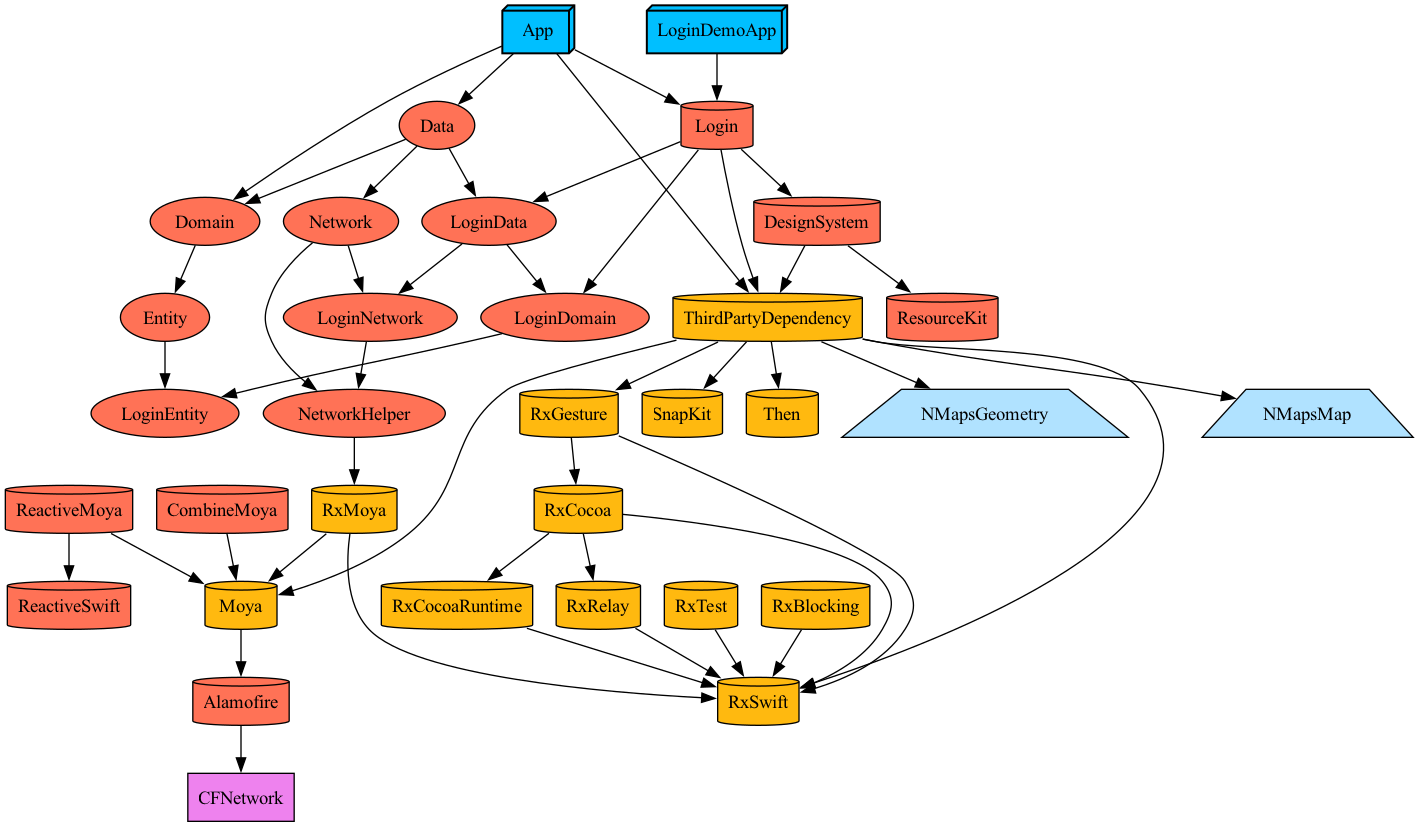
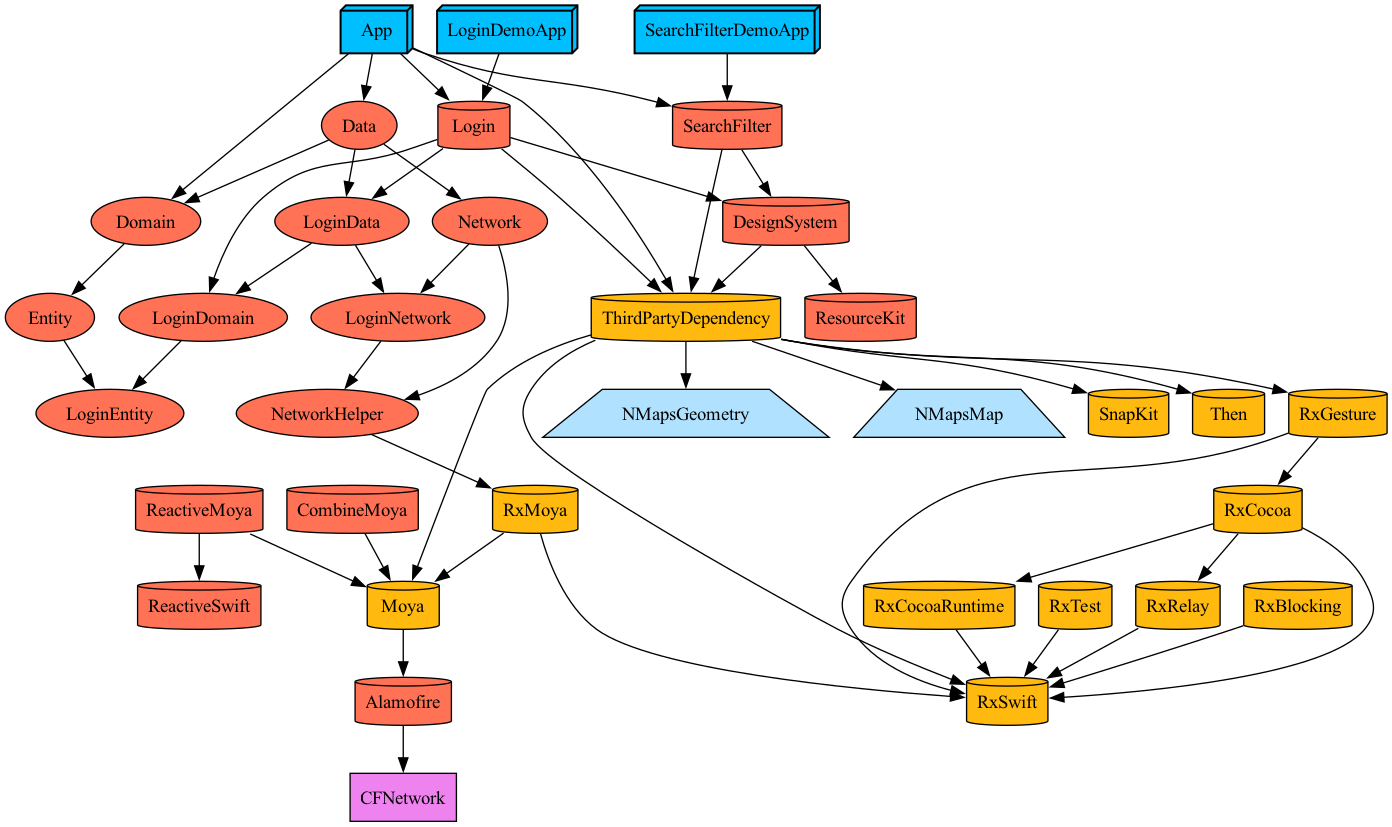
[SETTING] SearchFilter 모듈추가 및 SearchFilterDemoApp 추가

diff --git a/Plugins/FeaturePlugin/ProjectDescriptionHelpers/Feature+Project.swift b/Plugins/FeaturePlugin/ProjectDescriptionHelpers/Feature+Project.swift
@@ -11,6 +11,7 @@ import ProjectDescription
 extension TargetDependency {
   public struct Feature {
     public struct Login { }
+    public struct SearchFilter { }
   }
 }
 
@@ -27,3 +28,15 @@ public extension TargetDependency.Feature.Login {
   static let Main = project(name: "Login")
 }
 
+public extension TargetDependency.Feature.SearchFilter {
+  static let folderName: String = "SearchFilter"
+  
+  static func project(name: String) -> TargetDependency {
+    return .project(
+      target: "\(name)",
+      path: .relativeToRoot("Feature/\(folderName)")
+    )
+  }
+  
+  static let Main = project(name: "SearchFilter")
+}

diff --git a/Feature/SearchFilter/Project.swift b/Feature/SearchFilter/Project.swift
@@ -1,0 +1,30 @@
+//
+//  Project.swift
+//  ProjectDescriptionHelpers
+//
+//  Created by 구본의 on 2023/11/19.
+//
+
+import ProjectDescription
+import ProjectDescriptionHelpers
+
+import DataPlugin
+import DesignSystemPlugin
+import DomainPlugin
+import ThirdPartyDependencyPlugin
+
+let projectName: String = "SearchFilter"
+let iOSTargetVersion: String = "16.0"
+
+let project = Project.makeFrameworkProject(
+  name: projectName,
+  iOSTargetVersion: iOSTargetVersion,
+  dependencies: [
+    .ThirdParty.Main,
+    .DesignSystem.Main
+  ],
+  isDynamic: false,
+  needTestTarget: false,
+  needDemoAppTarget: true
+)
+

diff --git a/GuestHouse/Project.swift b/GuestHouse/Project.swift
@@ -63,8 +63,10 @@ private let appTarget: Target = Target(
   scripts: [.SwiftLintScript],
   dependencies: [
     .ThirdParty.Main,
-
-      .Feature.Login.Main,
+    
+    .Feature.Login.Main,
+    .Feature.SearchFilter.Main,
+    
     .Domain.Main,
     .Data.Main
   ],

diff --git a/Feature/SearchFilter/Resources/a.swift b/Feature/SearchFilter/Resources/a.swift
@@ -1,0 +1,10 @@
+//
+//  a.swift
+//  ProjectDescriptionHelpers
+//
+//  Created by 구본의 on 2023/11/19.
+//
+
+import Foundation
+
+let a: Int = 10

diff --git a/Feature/SearchFilter/Sources/a.swift b/Feature/SearchFilter/Sources/a.swift
@@ -1,0 +1,10 @@
+//
+//  a.swift
+//  ProjectDescriptionHelpers
+//
+//  Created by 구본의 on 2023/11/19.
+//
+
+import Foundation
+
+let a: Int = 10

diff --git a/Feature/SearchFilter/DemoApp/Resources/a.swift b/Feature/SearchFilter/DemoApp/Resources/a.swift
@@ -1,0 +1,10 @@
+//
+//  a.swift
+//  ProjectDescriptionHelpers
+//
+//  Created by 구본의 on 2023/11/19.
+//
+
+import Foundation
+
+let a = 10

diff --git a/Feature/SearchFilter/DemoApp/Sources/a.swift b/Feature/SearchFilter/DemoApp/Sources/a.swift
@@ -1,0 +1,10 @@
+//
+//  a.swift
+//  ProjectDescriptionHelpers
+//
+//  Created by 구본의 on 2023/11/19.
+//
+
+import Foundation
+
+let a = 10
